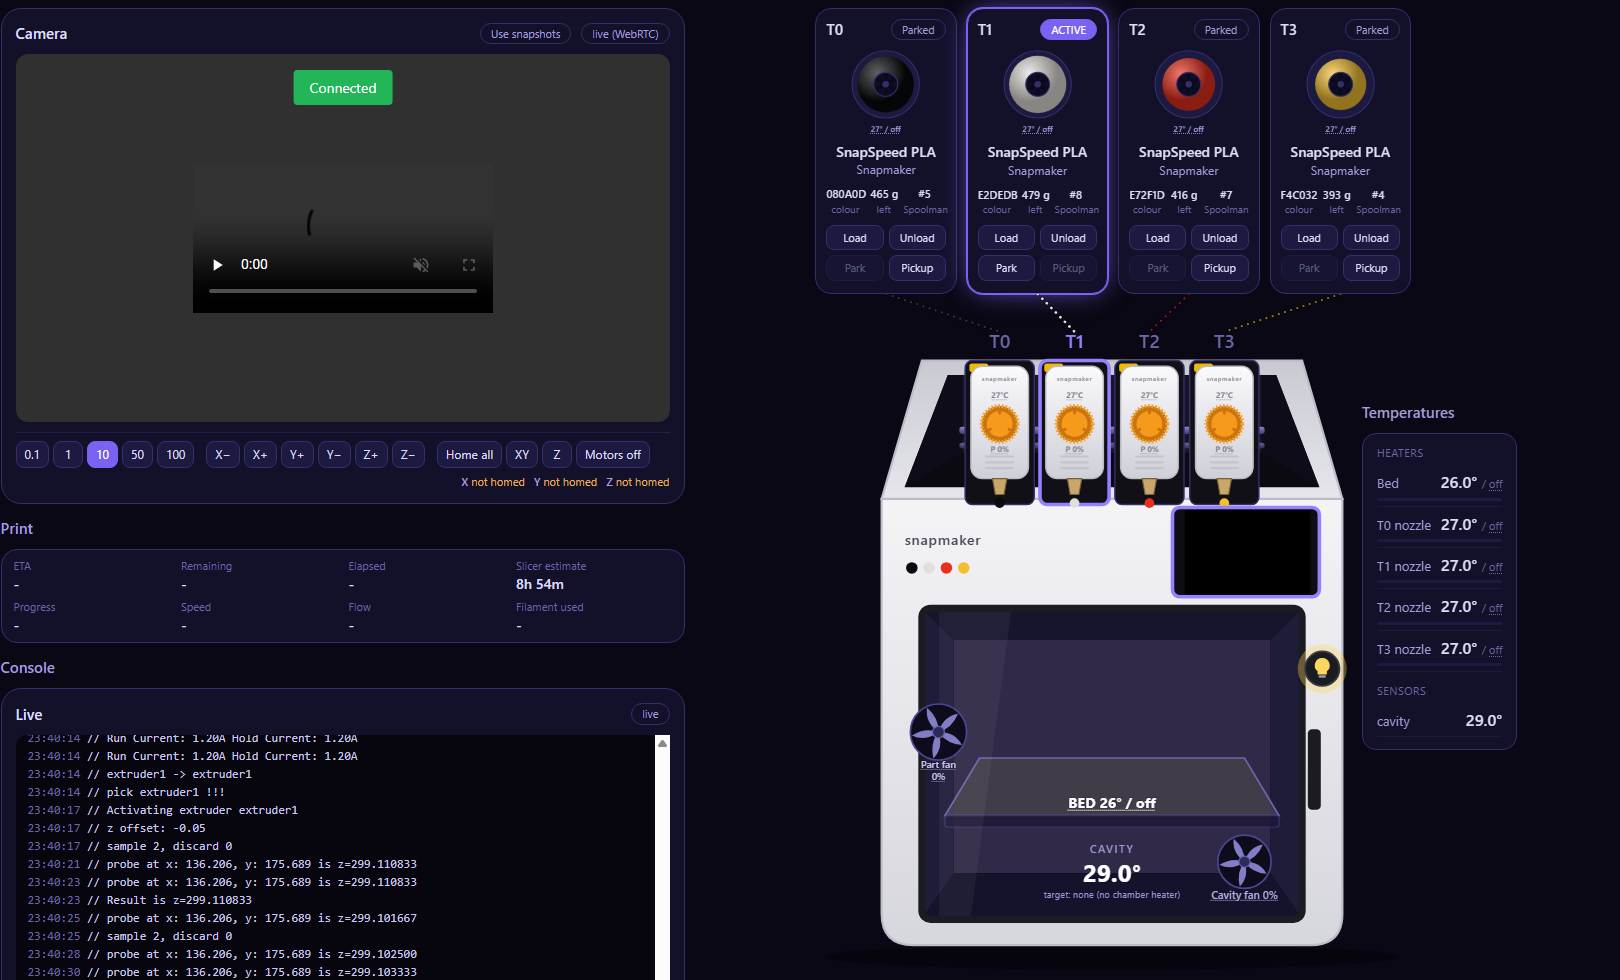
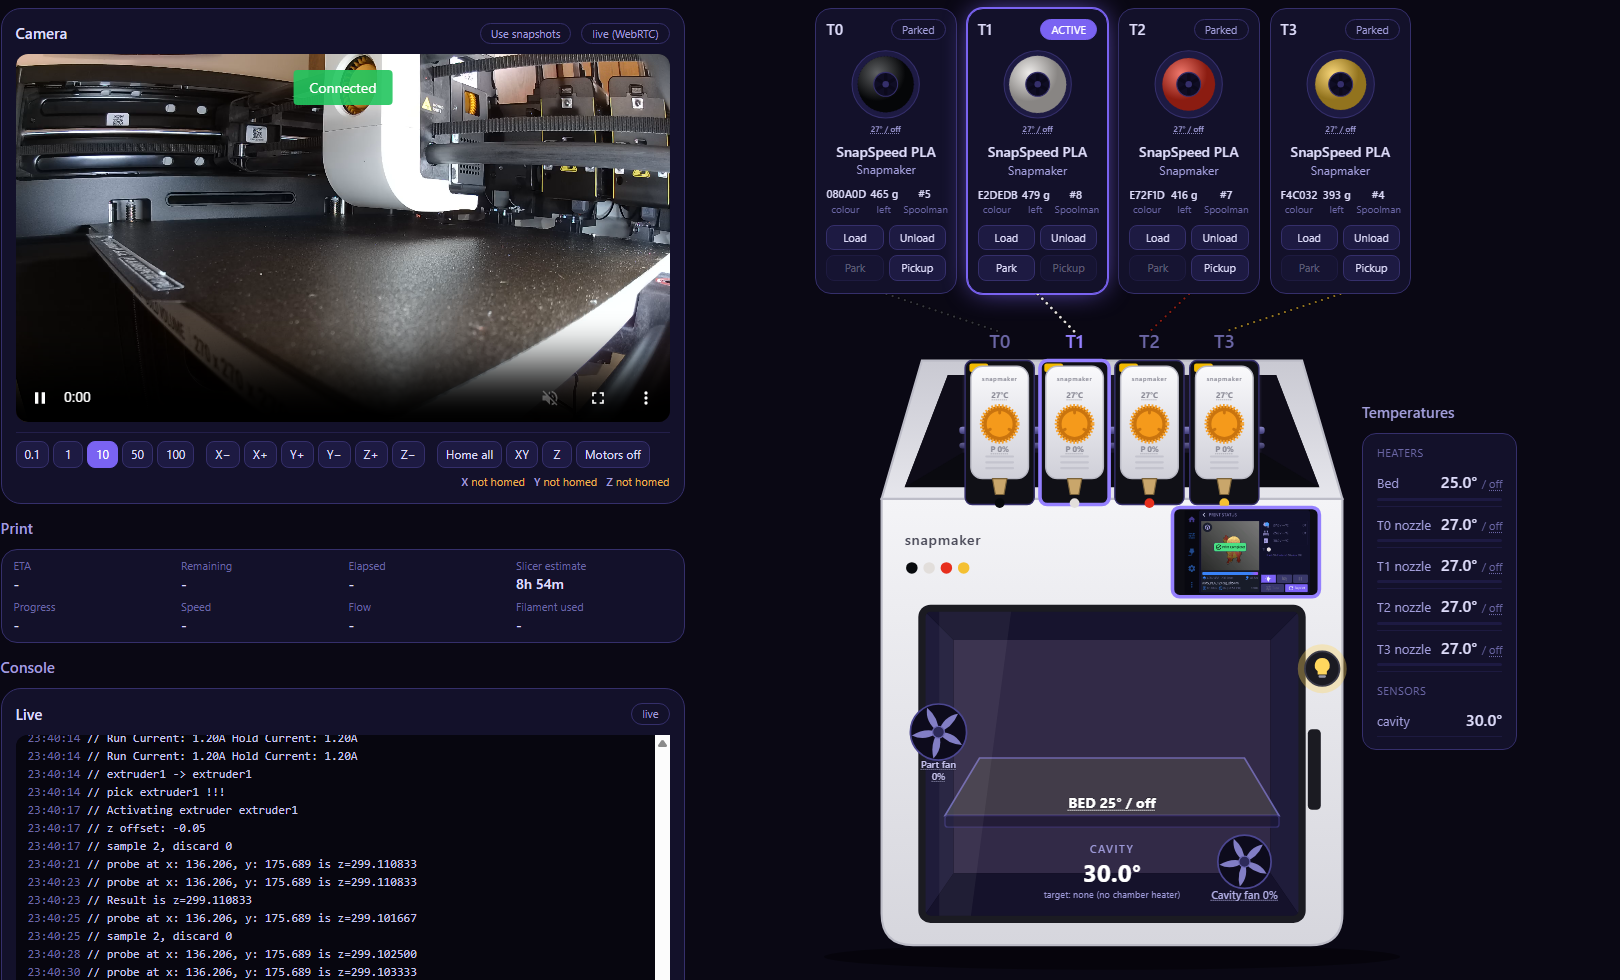
Retake remote touchscreen screenshots with the display awake

Changed region(s): [[0.0, 0.0306, 0.4321, 0.4286], [0.7407, 0.5204, 0.8333, 0.6122]]

diff --git a/README.md b/README.md
@@ -30,7 +30,7 @@ If your U1 runs [paxx12's SnapmakerU1 Extended Firmware](https://github.com/paxx
 
 ![The remote touchscreen window open on top of the dashboard](docs/screen-open.png)
 
-*Screenshots were taken while the printer's display was asleep, so the screen is black; it shows the printer's real UI when the display is awake.*
+*Top: the live screen in the drawn U1. Bottom: the interactive window, showing the printer's own print-status page.*
 
 To enable it, add this to `config.json` (the paths are on the printer) and restart Feedline:
 
